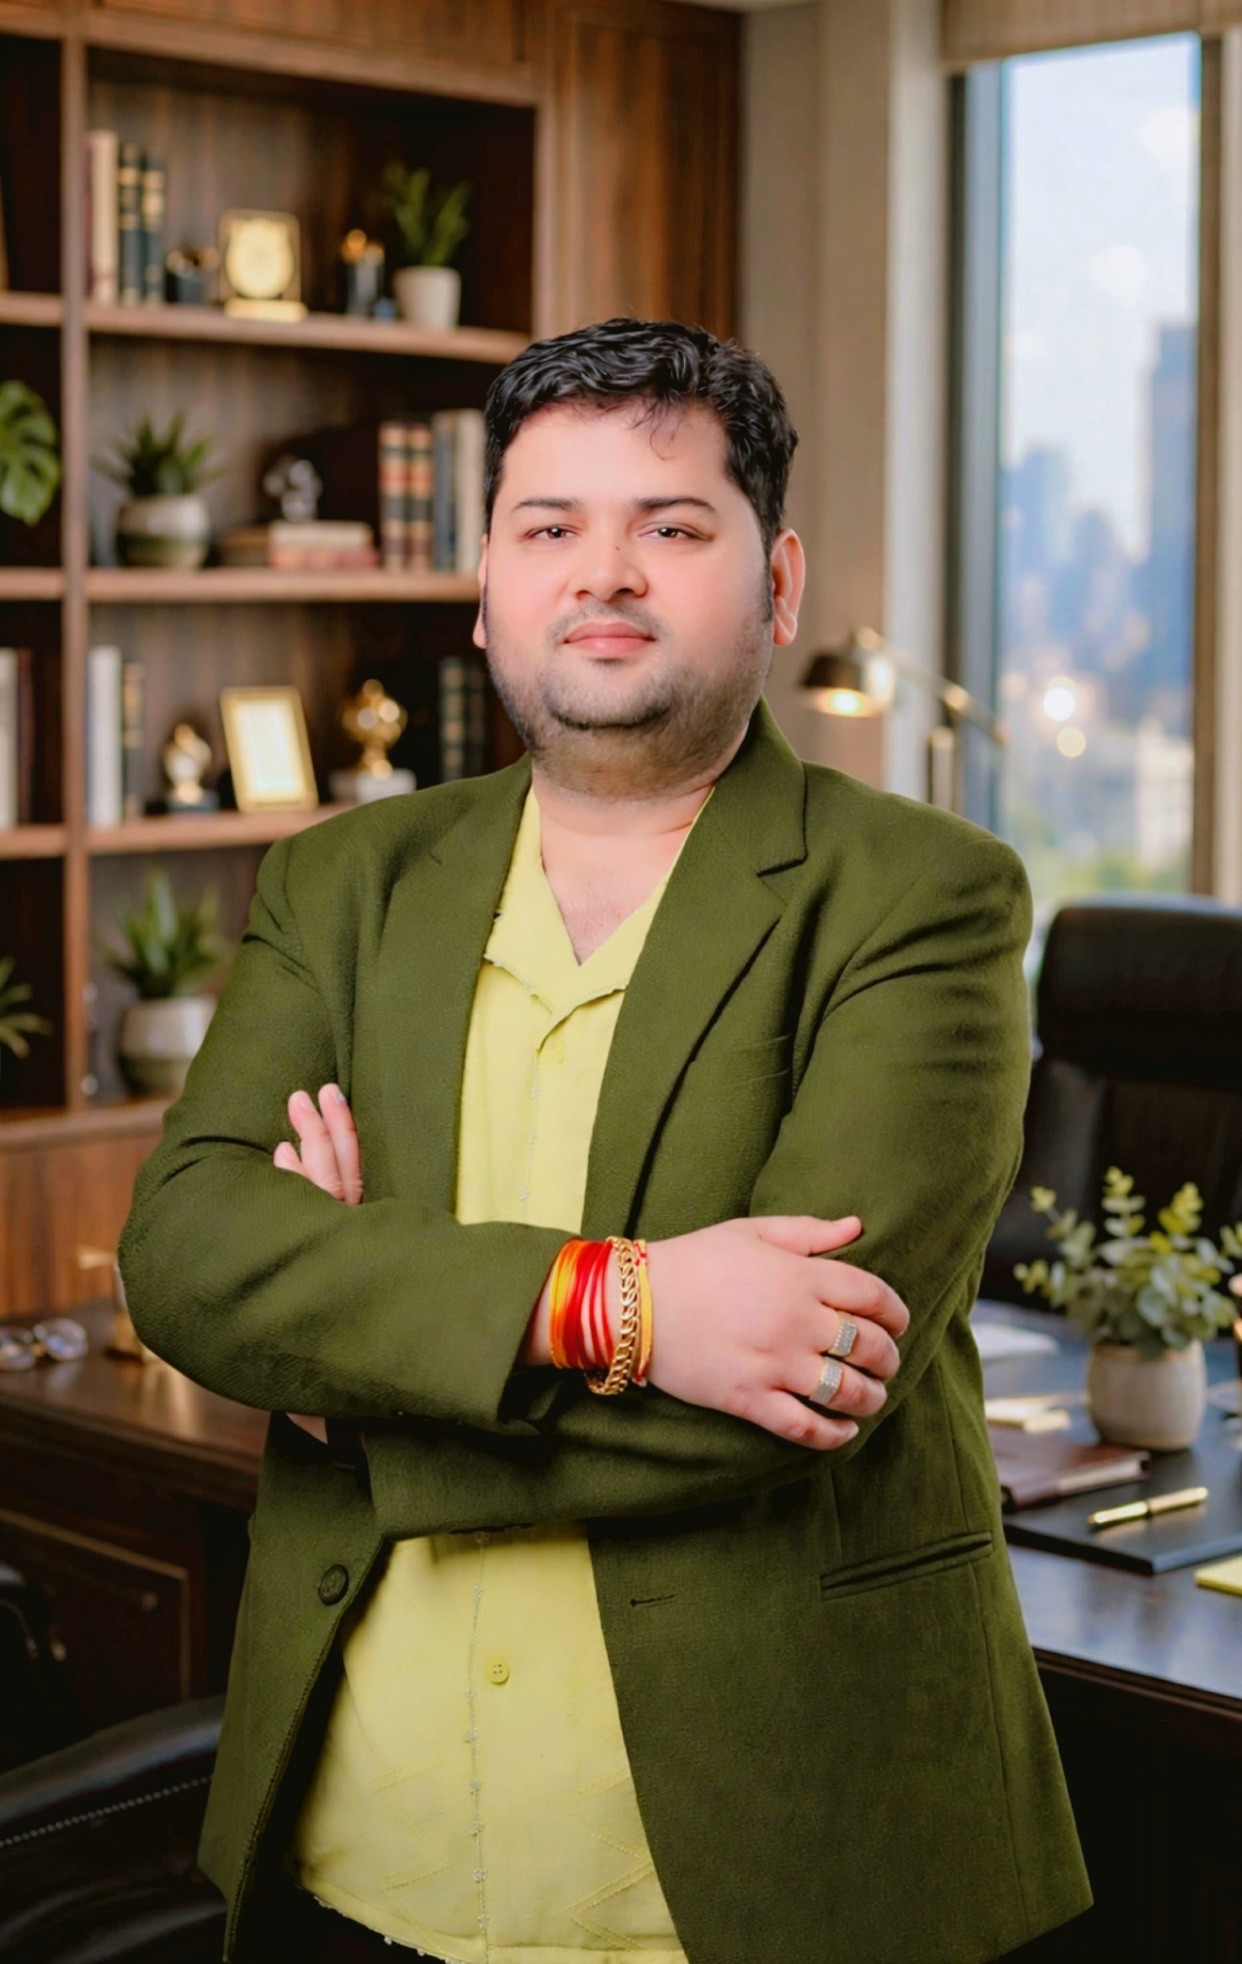
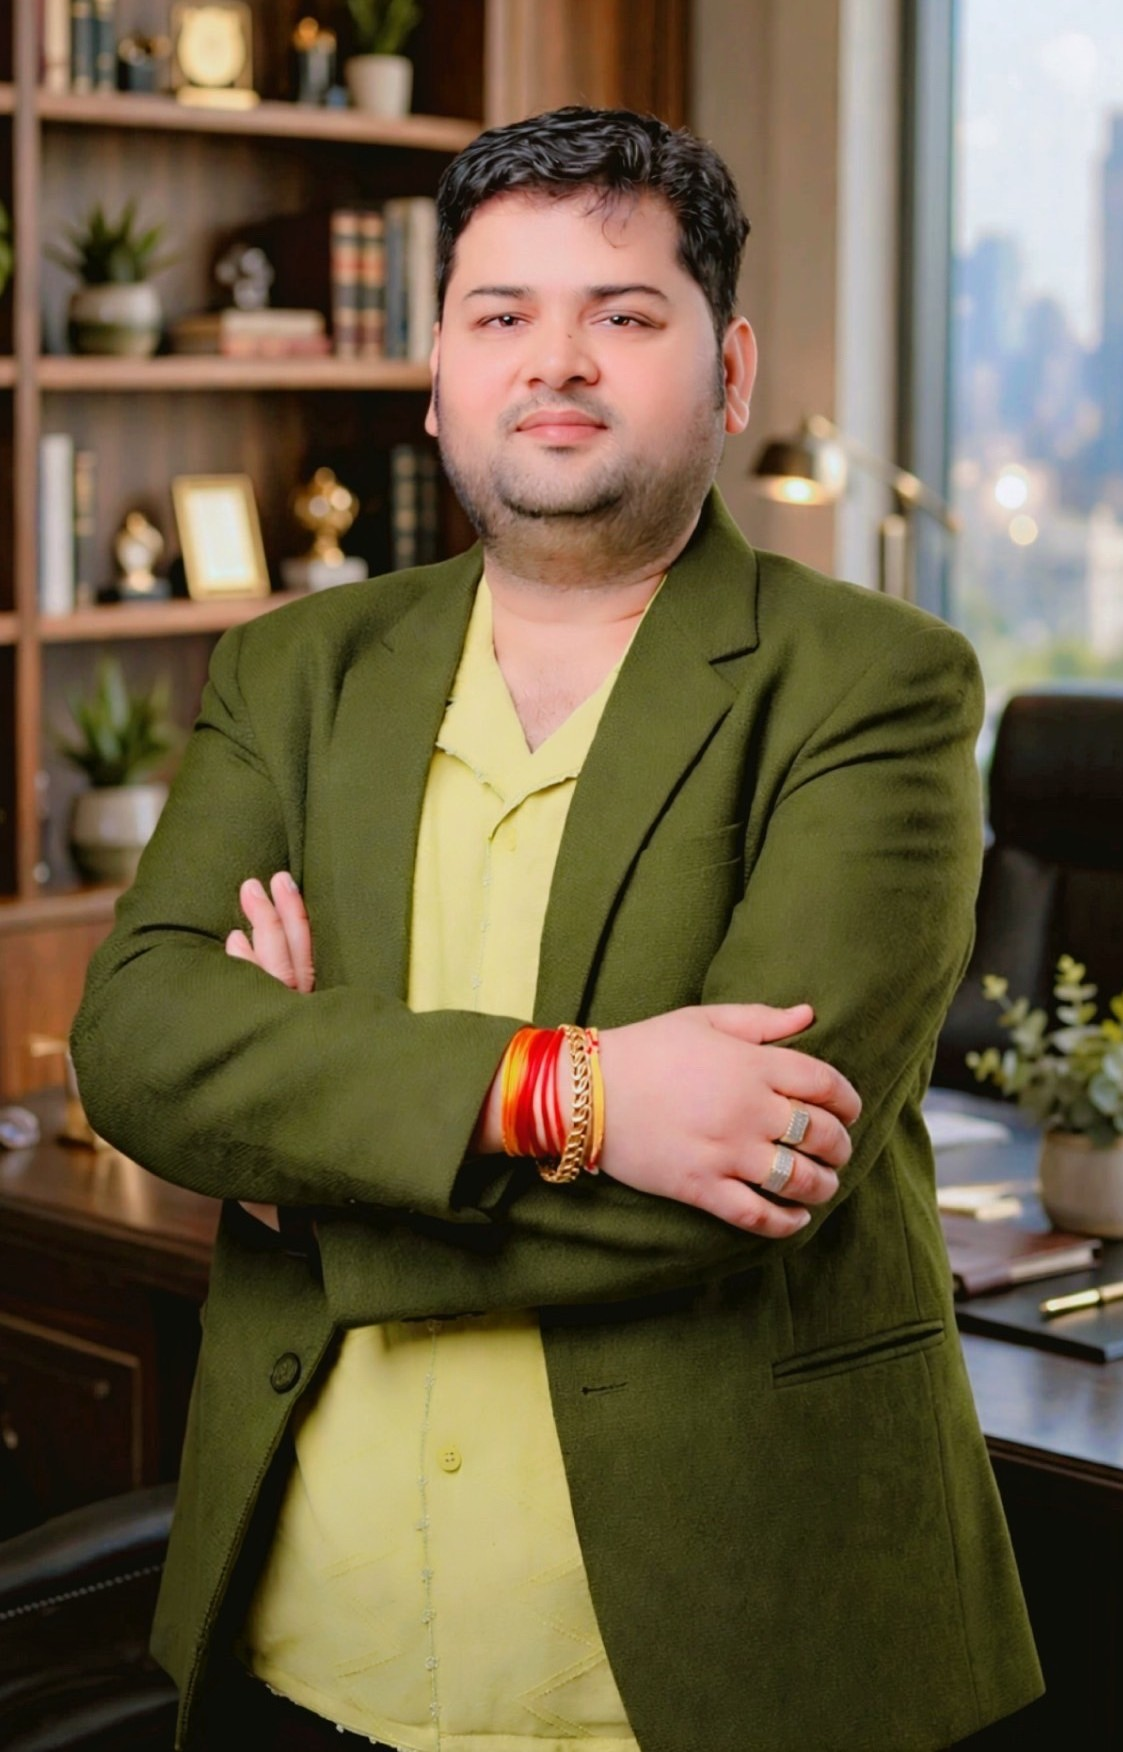
Updated tile and images

diff --git a/style.css b/style.css
@@ -326,7 +326,7 @@ header.site-header{
 /* ---------- Directors (reference showcase layout) ---------- */
 .directors-section{
   background: linear-gradient(180deg, #f7f1e8 0%, var(--cream) 45%, var(--cream) 100%);
-  overflow: hidden;
+  overflow: visible;
   padding-top: 44px;
   padding-bottom: 44px;
 }
@@ -379,7 +379,7 @@ header.site-header{
 .director-showcase-grid{
   display: grid;
   grid-template-columns: repeat(2, minmax(0, 1fr));
-  gap: 28px;
+  gap: 40px;
   margin-bottom: 28px;
 }
 
@@ -387,20 +387,22 @@ header.site-header{
   display: flex;
   flex-direction: column;
   gap: 16px;
+  overflow: visible;
 }
 
 /* Portrait stage with floating cards */
 .director-stage{
   position: relative;
-  min-height: 380px;
+  min-height: 400px;
   display: flex;
   align-items: flex-end;
   justify-content: center;
-  padding: 20px 12px 0;
+  padding: 28px 8% 0;
+  overflow: visible;
 }
 .director-stage-bg{
   position: absolute;
-  inset: 12% 10% 0 18%;
+  inset: 12% 18% 0 22%;
   border-radius: 28px 28px 0 0;
   background:
     linear-gradient(145deg, rgba(201, 154, 85, 0.18) 0%, transparent 42%),
@@ -433,7 +435,7 @@ header.site-header{
 .director-portrait{
   position: relative;
   z-index: 2;
-  width: min(78%, 280px);
+  width: min(58%, 240px);
   margin: 0 auto;
 }
 .director-portrait img{
@@ -456,7 +458,7 @@ header.site-header{
   padding: 12px 14px;
   border-radius: 14px;
   box-shadow: 0 14px 32px -16px rgba(28, 23, 18, 0.35);
-  max-width: 200px;
+  max-width: 180px;
   backdrop-filter: blur(6px);
 }
 .float-card strong{
@@ -508,12 +510,12 @@ header.site-header{
   font-size: 9px !important;
 }
 
-/* Positions of floating cards */
-.float-card--left-top{ left: 0; top: 18%; }
-.float-card--left-mid{ left: 2%; top: 42%; }
-.float-card--left-bot{ left: 6%; bottom: 12%; }
-.float-card--right-top{ right: 0; top: 14%; }
-.float-card--right-mid{ right: 0; top: 48%; }
+/* Positions of floating cards — kept outside the portrait so faces stay clear */
+.float-card--left-top{ left: 0; top: 10%; }
+.float-card--left-mid{ left: 0; top: 38%; }
+.float-card--left-bot{ left: 2%; bottom: 10%; }
+.float-card--right-top{ right: 0; top: 8%; }
+.float-card--right-mid{ right: 0; top: 44%; }
 
 .float-checklist{
   position: absolute;
@@ -1215,13 +1217,36 @@ footer .logo-text .sub{
   .nav-links.mobile-open a{ padding: 12px 0; }
   .hero-stats{ flex-direction: column; gap: 14px; }
   .btn{ padding: 10px 16px; }
-  .director-stage{ min-height: 400px; padding: 24px 8px 0; }
-  .director-portrait{ width: min(72%, 260px); }
+  .director-stage{ min-height: 420px; padding: 28px 6% 0; }
+  .director-portrait{ width: min(56%, 230px); }
   .director-portrait img{ height: 320px; }
-  .float-card{ max-width: 168px; padding: 10px 12px; }
+  .float-card{ max-width: 160px; padding: 10px 12px; }
   .float-card strong{ font-size: 11.5px; }
-  .float-checklist{ min-width: 150px; padding: 12px 14px; }
+  .float-checklist{ min-width: 144px; padding: 12px 14px; }
+  .float-card--left-top{ left: 0; top: 8%; }
+  .float-card--left-mid{ left: 0; top: 36%; }
+  .float-card--left-bot{ left: 1%; bottom: 10%; }
+  .float-card--right-top{ right: 0; top: 6%; }
+  .float-card--right-mid{ right: 0; top: 42%; }
   .directors-cta-copy{ padding: 24px 20px; }
+}
+
+/* Laptop / mid desktop: two columns still active — keep badges clear of faces */
+@media (min-width: 981px) and (max-width: 1200px){
+  .director-showcase-grid{ gap: 32px; }
+  .director-stage{ min-height: 390px; padding: 24px 5% 0; }
+  .director-portrait{ width: min(54%, 220px); }
+  .director-portrait img{ height: 320px; }
+  .float-card{ max-width: 158px; padding: 10px 12px; }
+  .float-card strong{ font-size: 11.5px; }
+  .float-card span:not(.float-card-icon):not(.float-rating){ font-size: 10.5px; }
+  .float-checklist{ min-width: 140px; padding: 12px 12px; }
+  .float-checklist li{ font-size: 12px; }
+  .float-card--left-top{ left: 0; top: 8%; }
+  .float-card--left-mid{ left: 0; top: 36%; }
+  .float-card--left-bot{ left: 1%; bottom: 10%; }
+  .float-card--right-top{ right: 0; top: 6%; }
+  .float-card--right-mid{ right: 0; top: 42%; }
 }
 
 /* Tighter related sections — kill empty band between About → What We Do */
@@ -1256,20 +1281,20 @@ footer .logo-text .sub{
   .section-label{ font-size: 28px; }
   .expertise-pills{ grid-template-columns: 1fr; }
 
-  /* Directors: keep desktop floating-card composition on mobile */
+  /* Directors: keep floating-card composition, badges clear of faces */
   .directors-section{ overflow: visible; }
   .director-showcase-grid{ gap: 56px; }
   .director-stage{
-    min-height: 420px;
+    min-height: 440px;
     flex-direction: row;
     align-items: flex-end;
     justify-content: center;
-    padding: 32px 4px 0;
+    padding: 36px 4% 0;
     overflow: visible;
   }
   .director-stage-bg{
     display: block;
-    inset: 16% 6% 0 10%;
+    inset: 16% 16% 0 18%;
     border-radius: 22px 22px 0 0;
   }
   .director-stage-bg::before{
@@ -1278,7 +1303,7 @@ footer .logo-text .sub{
     height: 52%;
   }
   .director-portrait{
-    width: min(68%, 220px);
+    width: min(52%, 200px);
     order: unset;
     margin: 0 auto;
   }
@@ -1289,11 +1314,11 @@ footer .logo-text .sub{
     object-position: top center;
   }
 
-  /* Compact floating badges — same layout as desktop */
+  /* Compact floating badges — framed away from portrait */
   .float-card{
     position: absolute;
     z-index: 3;
-    max-width: 142px;
+    max-width: 132px;
     width: auto;
     margin-top: 0;
     padding: 8px 10px;
@@ -1323,7 +1348,7 @@ footer .logo-text .sub{
     max-width: none;
     width: auto;
     margin-top: 0;
-    min-width: 128px;
+    min-width: 118px;
     padding: 10px 12px;
     border-radius: 12px;
   }
@@ -1338,12 +1363,12 @@ footer .logo-text .sub{
     font-size: 9px;
   }
 
-  /* Tighter card positions so they frame the portrait */
-  .float-card--left-top{ left: 0; top: 14%; }
-  .float-card--left-mid{ left: 0; top: 40%; }
-  .float-card--left-bot{ left: 2%; bottom: 10%; }
-  .float-card--right-top{ right: 0; top: 12%; }
-  .float-card--right-mid{ right: 0; top: 44%; }
+  /* Frame the portrait — cards sit in side gutters */
+  .float-card--left-top{ left: 0; top: 8%; }
+  .float-card--left-mid{ left: 0; top: 36%; }
+  .float-card--left-bot{ left: 1%; bottom: 8%; }
+  .float-card--right-top{ right: 0; top: 6%; }
+  .float-card--right-mid{ right: 0; top: 40%; }
 
   .director-showcase-meta{ padding: 0 4px 4px; }
   .director-showcase-meta h3{ font-size: 26px; }
@@ -1355,13 +1380,13 @@ footer .logo-text .sub{
 /* Extra-small phones: slightly smaller stage, still floating composition */
 @media (max-width: 400px){
   .director-stage{
-    min-height: 390px;
-    padding: 28px 0 0;
+    min-height: 400px;
+    padding: 32px 2% 0;
   }
-  .director-portrait{ width: min(64%, 200px); }
+  .director-portrait{ width: min(48%, 170px); }
   .director-portrait img{ height: 260px; }
   .float-card{
-    max-width: 128px;
+    max-width: 118px;
     padding: 7px 8px;
     gap: 5px;
   }
@@ -1374,14 +1399,14 @@ footer .logo-text .sub{
   .float-card strong{ font-size: 9.5px; }
   .float-card span:not(.float-card-icon):not(.float-rating){ font-size: 8.5px; }
   .float-checklist{
-    min-width: 114px;
+    min-width: 104px;
     padding: 8px 10px;
   }
   .float-checklist li{ font-size: 10px; gap: 6px; margin-bottom: 5px; }
   .float-checklist .check{ width: 14px; height: 14px; font-size: 8px; }
-  .float-card--left-top{ left: -2px; top: 12%; }
-  .float-card--left-mid{ left: -2px; top: 38%; }
-  .float-card--left-bot{ left: 0; bottom: 8%; }
-  .float-card--right-top{ right: -2px; top: 10%; }
-  .float-card--right-mid{ right: -2px; top: 42%; }
+  .float-card--left-top{ left: 0; top: 6%; }
+  .float-card--left-mid{ left: 0; top: 34%; }
+  .float-card--left-bot{ left: 0; bottom: 6%; }
+  .float-card--right-top{ right: 0; top: 4%; }
+  .float-card--right-mid{ right: 0; top: 38%; }
 }
